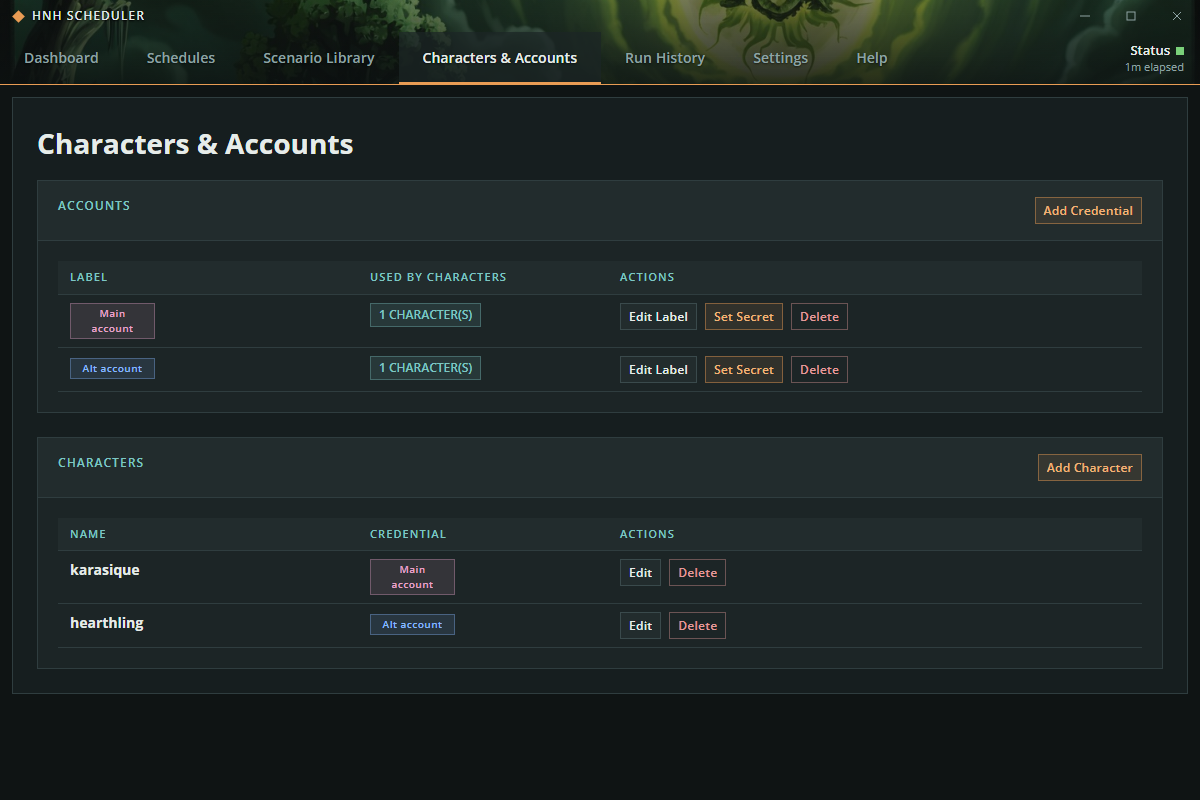
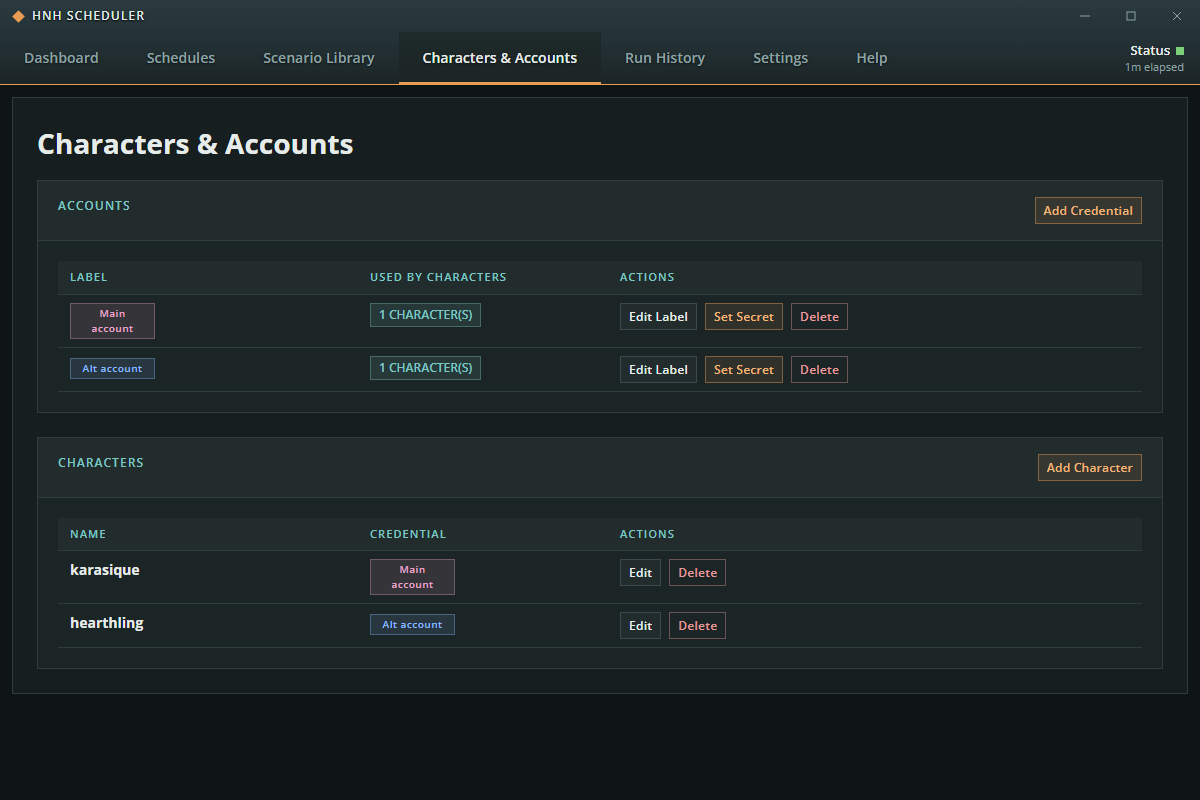
Header: teal gradient instead of the art

Changed region(s): [[0.0, 0.0, 1.0, 0.0938]]

diff --git a/src/renderer/index.css b/src/renderer/index.css
@@ -65,11 +65,9 @@ body {
   height: 100vh;
 }
 
-/* Header Container - Single continuous gradient */
+/* Header Container - dark teal gradient, like the updater's title strip */
 .header-container {
-  background:
-    linear-gradient(to bottom, rgba(12, 17, 17, 0.55), rgba(12, 17, 17, 0.88)),
-    url('./images/nurgling-art.jpg') center 38% / cover;
+  background: linear-gradient(to bottom, #2a3a3e 0%, #243236 45%, var(--surface) 100%);
   border-bottom: 1px solid var(--accent);
   box-shadow: none;
   position: relative;
